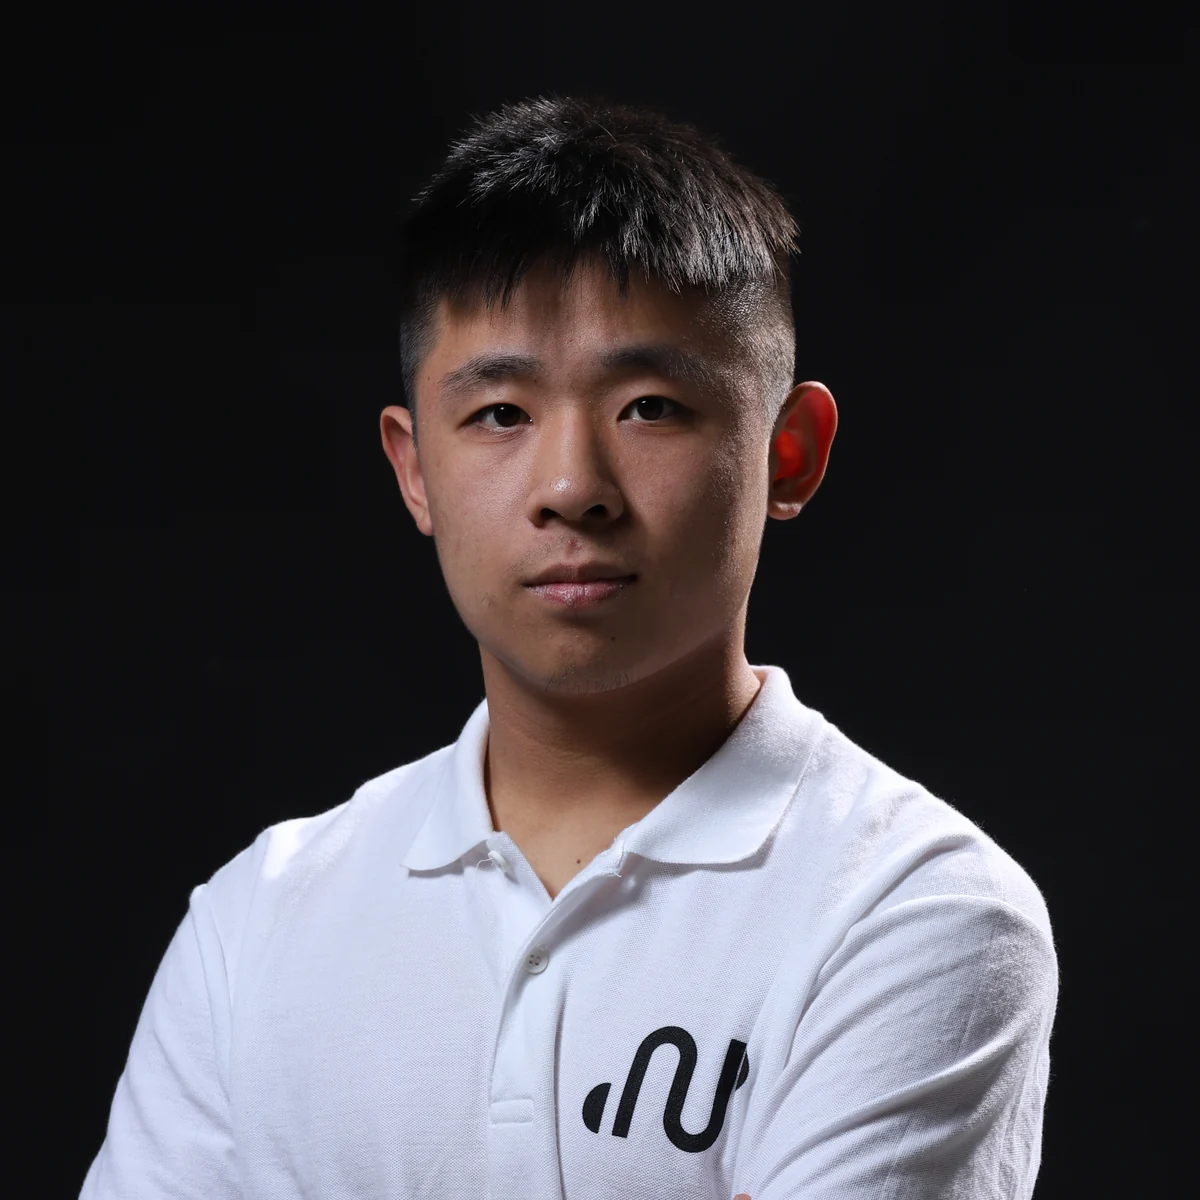
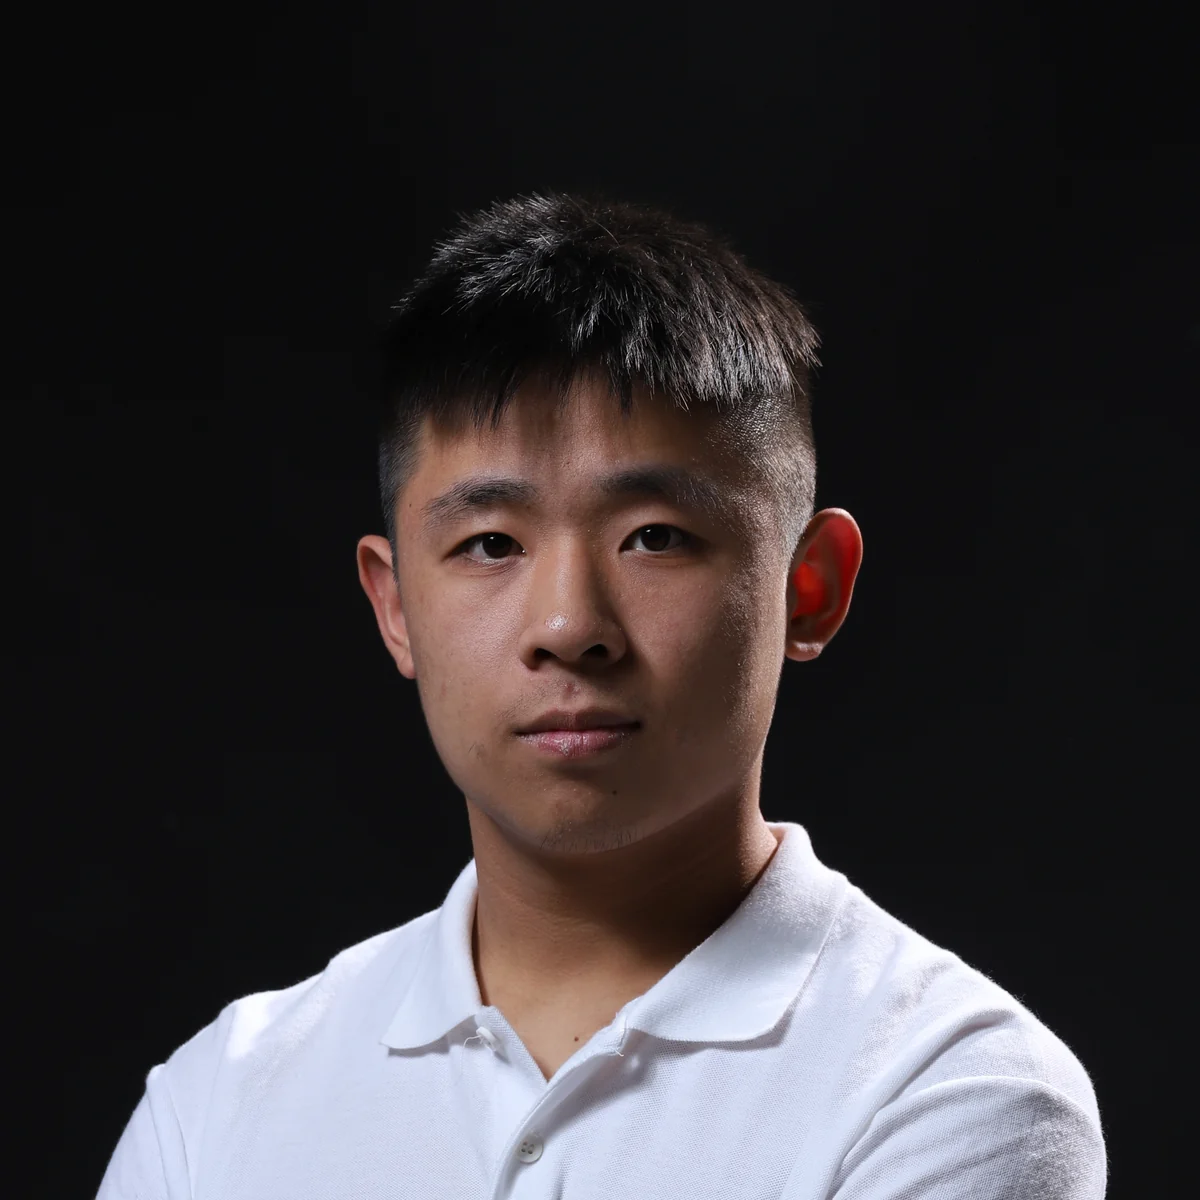
Use Marc's own photo and frame Yuxiao's to match
Marc's card takes the square head-and-shoulders photo he chose, trimmed
16 px at the top to remove a green mark on its edge. It frames tighter than
the crop it replaces (the head about 55% of the frame, down to the collar),
so Yuxiao Lin's photo is recropped to the same frame. The alt text says
"a white polo": the team logo is now out of the frame. The README gives the
frame for future photos.

diff --git a/README.md b/README.md
@@ -117,7 +117,7 @@ one language.
 | To…                                 | Do this                                                                                                                                                                                                          |
 | :---------------------------------- | :--------------------------------------------------------------------------------------------------------------------------------------------------------------------------------------------------------------- |
 | Add a paper, poster or write-up     | Add a folder to `src/content/research/` with an `index.md` (or `index.mdx` to use `<Datum>` or `<Term>`) and its pictures. `src/content/research/README.md` gives the front matter and what changes with the first item. Math is LaTeX between `$…$` or `$$…$$`. |
-| Add a team member                   | Add `src/content/team/<name>.yaml` with `consent: true` (nobody is published without it), for Direction their role and department in the three languages (a member has neither, only the name), their photo in `src/assets/team/` (a square bust shot in colour: head and shoulders, the head about half the frame, cropped like the others) and, if they want, `linkedin:` with the part after `linkedin.com/in/`. |
+| Add a team member                   | Add `src/content/team/<name>.yaml` with `consent: true` (nobody is published without it), for Direction their role and department in the three languages (a member has neither, only the name), their photo in `src/assets/team/` (a square bust shot in colour, cropped like the others: head and shoulders down to the collar, the head from hair to chin about 55% of the frame's height, the hair about a sixth of the way down) and, if they want, `linkedin:` with the part after `linkedin.com/in/`. |
 | Add a partner                       | Only once they have agreed. Add a line to `src/data/partners.ts` with its tier and its full name (`fullName`, in the three languages, or one string when it reads the same), and its logo in one ink (see `src/components/PartnerMark.astro`).                                                                 |
 | Move the story on a season          | Move `now: true` to the new station in `src/content/seasons/`.                                                                                                                                                 |
 | Open or close the recruitment round | Change the dates in `src/data/recruitment.ts`; set `students` once the round is decided (the home and Join show the count) and `nextOpens` once the next round has a month. The site rebuilds every night, so "Apply now" turns into "Write to us" (an email, for late applications and the next round) on its own the morning after the closing date.                                 |
